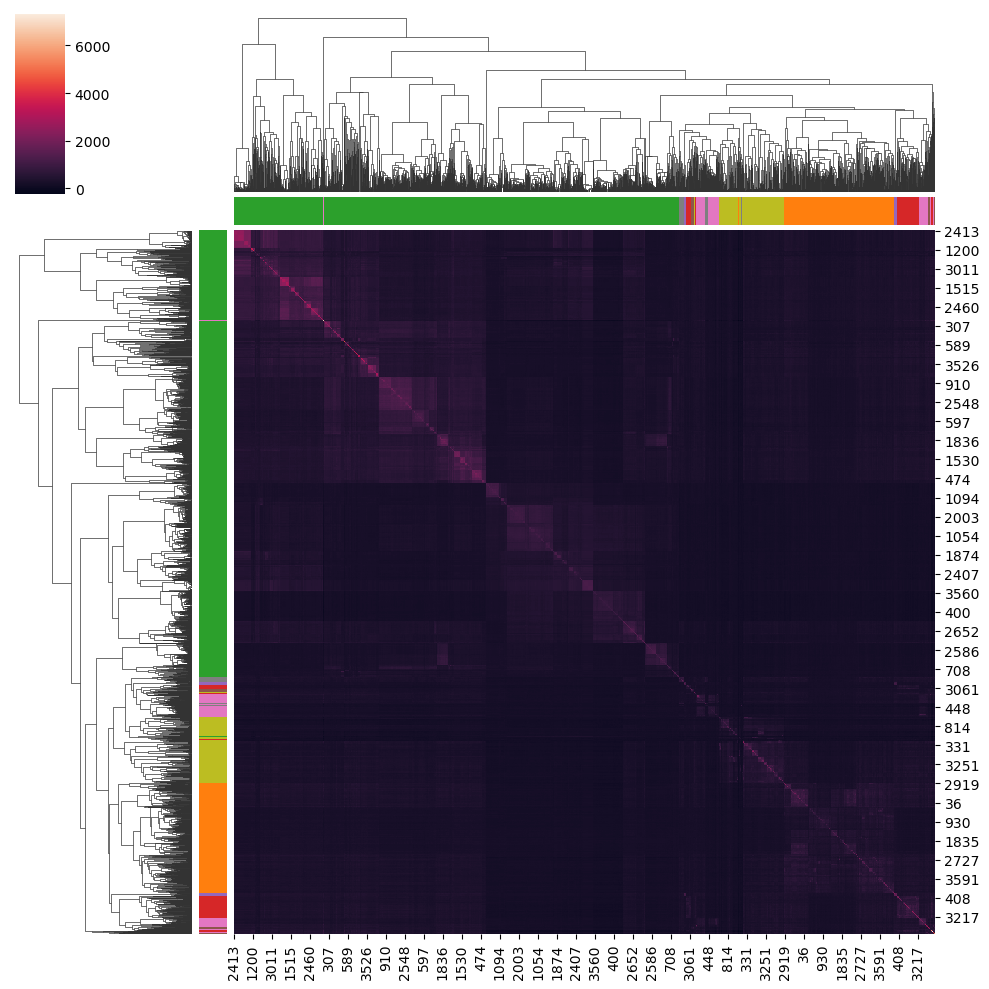
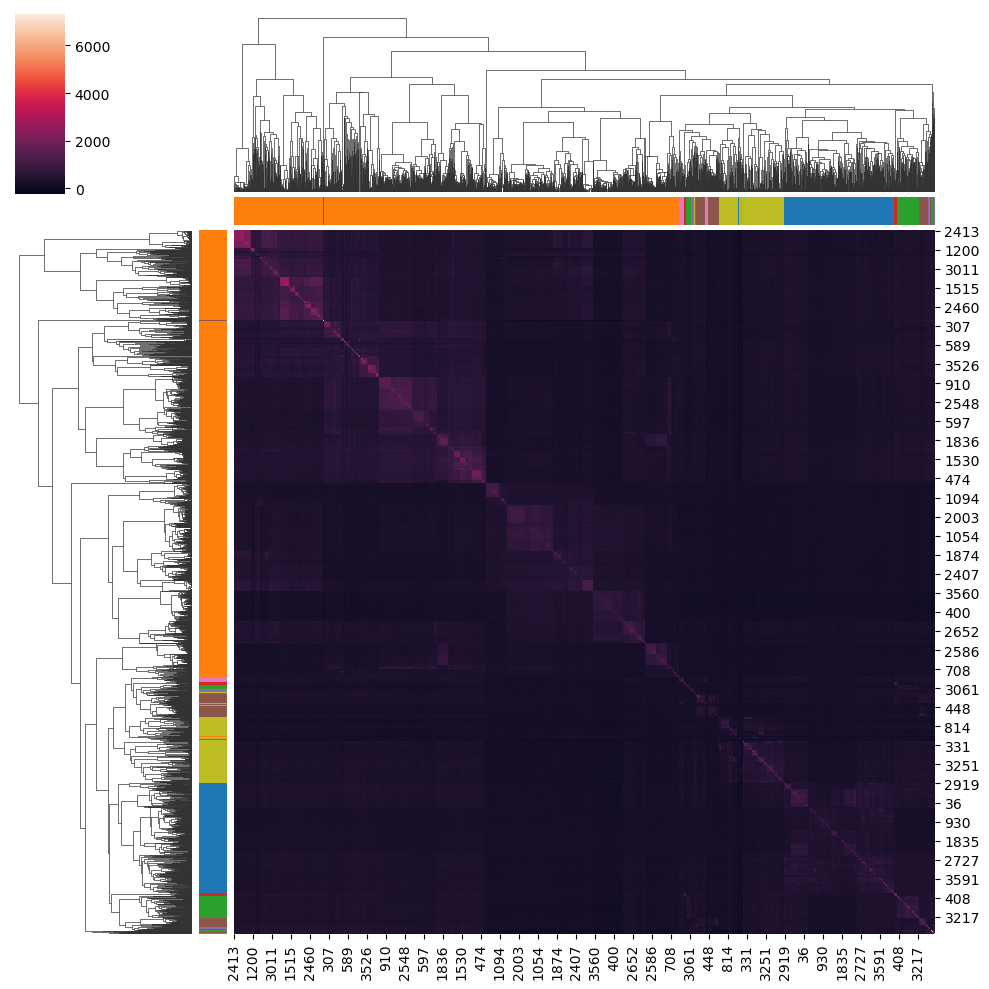
Dendrograms to iTOL

Changed region(s): [[0.182, 0.182, 0.728, 0.728], [0.7887, 0.182, 0.9403, 0.2427], [0.182, 0.7887, 0.2427, 0.9403]]

diff --git a/src/sequence_analysis/plot_dendrogram.py b/src/sequence_analysis/plot_dendrogram.py
@@ -17,10 +17,97 @@ with open(f'{CAZY_DATA}/uniprot_family.pkl', 'rb') as dic:
     dic = pickle.load(dic)
 
 # Assign color to each family
-families = ['AA0', 'AA9', 'AA10', 'AA11', 'AA13', 'AA14', 'AA15', 'AA16', 'AA17']
-families_colors = dict(zip(families, sns.color_palette()))
-colors = [families_colors[dic[id]] for id in ids]
+family_color = {
+    'AA0' : '#e377c2',
+    'AA9' : '#1f77b4',
+    'AA10' : '#ff7f0e',
+    'AA11' : '#2ca02c',
+    'AA13' : '#d62728',
+    'AA14' : '#9467bd',
+    'AA15' : '#8c564b',
+    'AA16' : '#e377c2',
+    'AA17' : '#bcbd22'
+}
+colors = [family_color[dic[id]] for id in ids]
 
 # Plot
 heatmap = sns.clustermap(matrix, col_colors = colors, row_colors = colors)
 heatmap.savefig(f'{PLOTS}/sequence_heatmap.png', transparent=True)
+
+# Average hierarchical clustering
+from scipy.cluster import hierarchy
+import fastcluster
+Z = fastcluster.linkage(matrix, 'average')
+
+def get_newick(node, parent_dist, leaf_names, newick='') -> str:
+    """
+    Convert sciply.cluster.hierarchy.to_tree()-output to Newick format.
+
+    :param node: output of sciply.cluster.hierarchy.to_tree()
+    :param parent_dist: output of sciply.cluster.hierarchy.to_tree().dist
+    :param leaf_names: list of leaf names
+    :param newick: leave empty, this variable is used in recursion.
+    :returns: tree in Newick format
+    """
+    if node.is_leaf():
+        return "%s:%.2f%s" % (leaf_names[node.id], parent_dist - node.dist, newick)
+    else:
+        if len(newick) > 0:
+            newick = "):%.2f%s" % (parent_dist - node.dist, newick)
+        else:
+            newick = ");"
+        newick = get_newick(node.get_left(), node.dist, leaf_names, newick=newick)
+        newick = get_newick(node.get_right(), node.dist, leaf_names, newick=",%s" % (newick))
+        newick = "(%s" % (newick)
+        return newick
+
+# Get Newick format
+tree = hierarchy.to_tree(Z, False)
+newick = get_newick(tree, tree.dist, leaf_names = ids)
+print(newick)
+with open(f'{SEQUENCE_CLUSTERING}/his1_tree.txt', 'w') as tree_file:
+    tree_file.write(newick)
+
+#  Write annotation file
+with open(f'{SEQUENCE_CLUSTERING}/his1_annotations.txt', 'w') as annotations_file:
+    settings = '''
+DATASET_COLORSTRIP
+#lines starting with a hash are comments and ignored during parsing
+#select the separator which is used to delimit the data below (TAB,SPACE or COMMA).This separator must be used throught this file (except in the SEPARATOR line, which uses space).
+
+#SEPARATOR TAB
+SEPARATOR SPACE
+#SEPARATOR COMMA
+
+#label is used in the legend table (can be changed later)
+DATASET_LABEL color_strip1
+
+#dataset color (can be changed later)
+COLOR #000
+
+#optional settings
+
+#all other optional settings can be set or changed later in the web interface (under 'Datasets' tab)
+COLOR_BRANCHES 0
+#maximum width
+STRIP_WIDTH 25
+
+#left margin, used to increase/decrease the spacing to the next dataset. Can be negative, causing datasets to overlap.
+MARGIN 0
+
+#border width; if set above 0, a black border of specified width (in pixels) will be drawn around the color strip 
+BORDER_WIDTH 1
+BORDER_COLOR #000
+
+#show internal values; if set, values associated to internal nodes will be displayed even if these nodes are not collapsed. It could cause overlapping in the dataset display.
+SHOW_INTERNAL 0
+
+#In colored strip charts, each ID is associated to a color. Color can be specified in hexadecimal, RGB or RGBA notation
+#Internal tree nodes can be specified using IDs directly, or using the 'last common ancestor' method described in iTOL help pages
+#Actual data follows after the "DATA" keyword
+DATA
+'''
+    annotations_file.write(settings)
+
+    for id in ids:
+        annotations_file.write(f'{id} {family_color[dic[id]]}\n')
